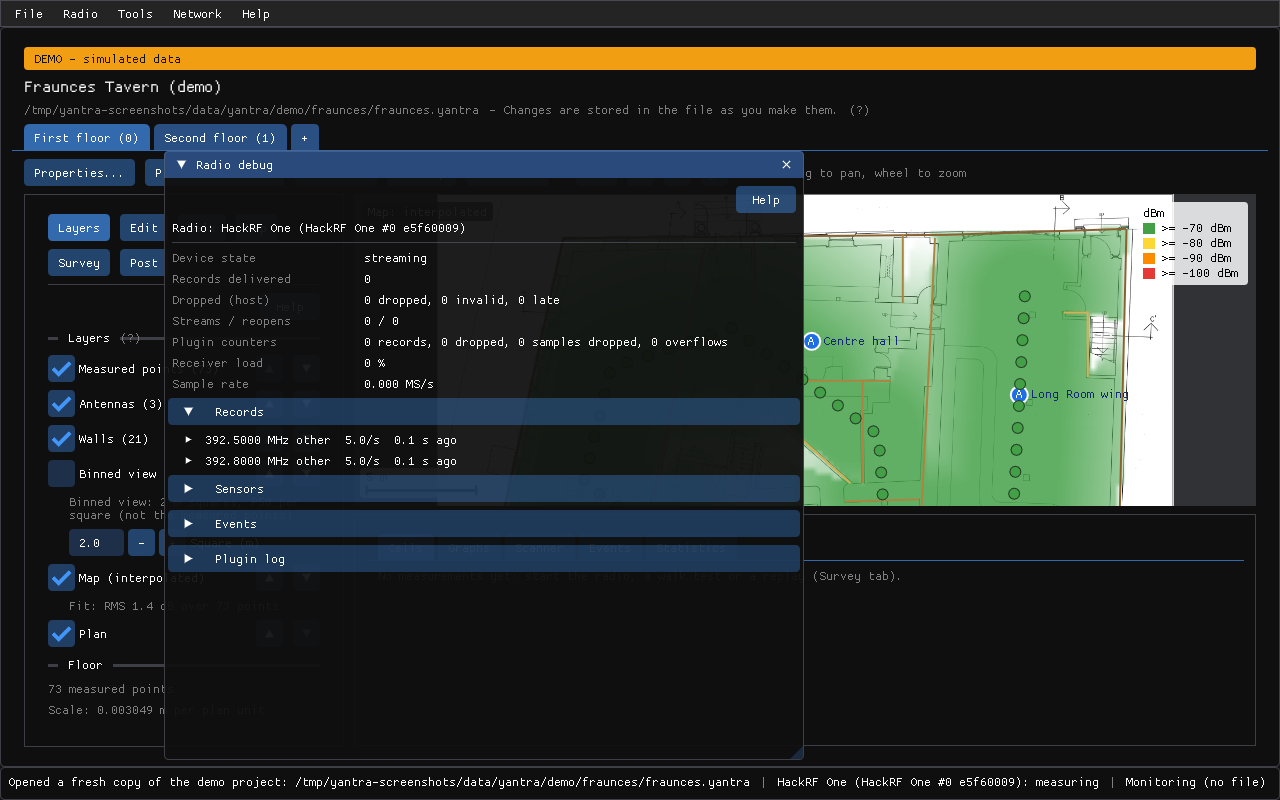
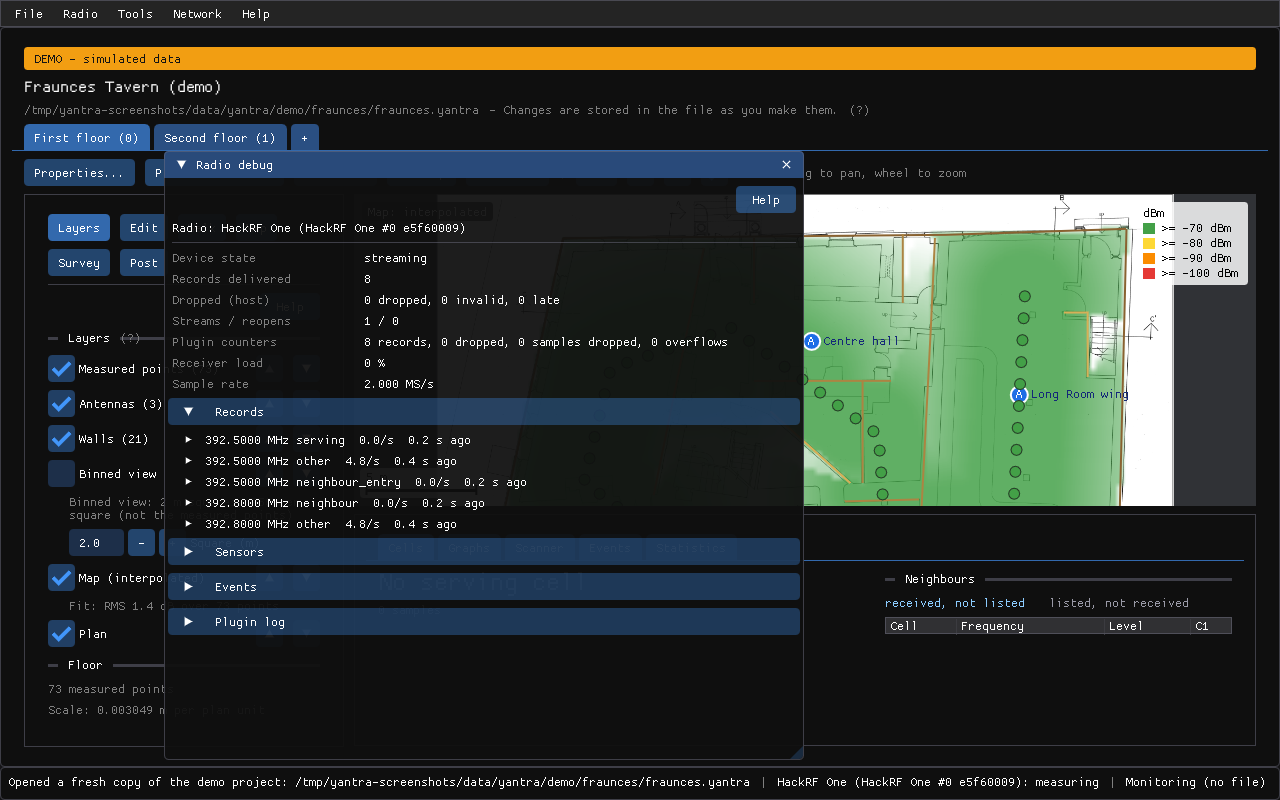
Debug window screenshots wait for a counter reading; no package in the plugins-off tree (SCR-05, PLG-26)
The opt-in screenshots_compare found the four radio debug pictures 8-9 %
changed: the scene took the picture 90 frames after the first record,
so whether the once-a-second counter reading had come yet depended on
the frame rate (the stored pictures showed "0" records delivered next
to a list of records). The scene now also waits for a reading that has
seen records. radio_{simulator,hackrf}_debug_{dark,light}.png
regenerated on purpose (counters, rates and the measured carriers now
shown); checked visually, no home folder.

The package holds every shipped plugin, so the plugins-off tree (built
without the probe and pei plugins, PLG-01 check) defines no deb target
or package_deb test (it failed there on the missing plugins).

Changed region(s): [[0.125, 0.5938, 0.625, 0.8125], [0.6875, 0.7188, 0.9688, 0.8125]]

diff --git a/app/gui/screenshot.cpp b/app/gui/screenshot.cpp
@@ -236,6 +236,12 @@ void ShotRunner::radio_window(RadioWindow w) {
         // The debug window shows the records of a measuring radio.
         run("start the radio", [this] { return state_.live()->start_radio(); });
         until("records in the debug window", [this] { return !state_.radio_windows()->debug_view().records.empty(); });
+        // The counters are read once a second: wait for a reading that has
+        // seen records, so the picture does not depend on the frame rate.
+        until("counters in the debug window", [this] {
+            const DebugView& d = state_.radio_windows()->debug_view();
+            return d.stats_valid && d.stats.sink.delivered > 0;
+        });
     }
     // The debug window's counters and the sensors are read once a second.
     frames(90);
